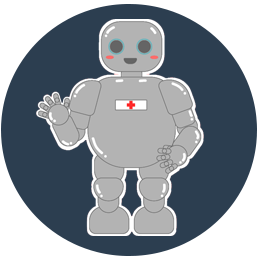
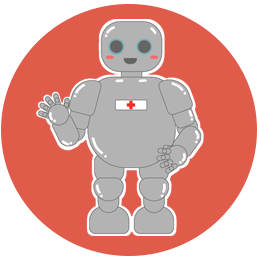
Hongtae

diff --git a/public/css/theme.css b/public/css/theme.css
@@ -18,7 +18,7 @@ body {
   font-size: 12px;
   line-height: 30px;
   color: #777;
-  background: #2d3e50;
+  background: #e05b49;
 }
 
 .container {
